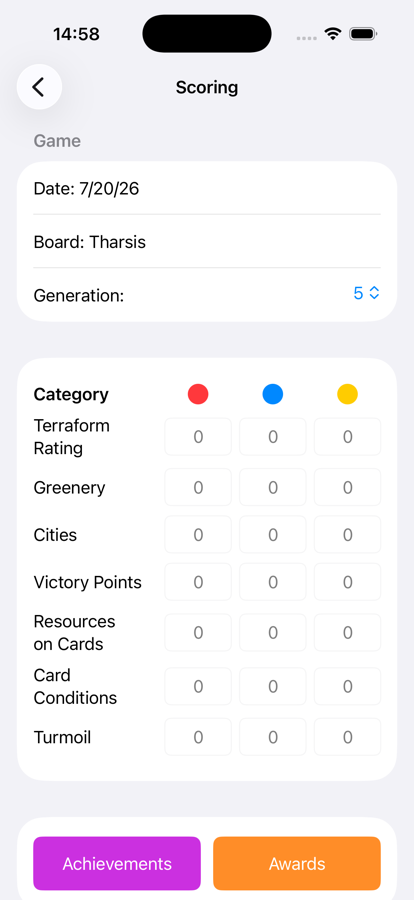
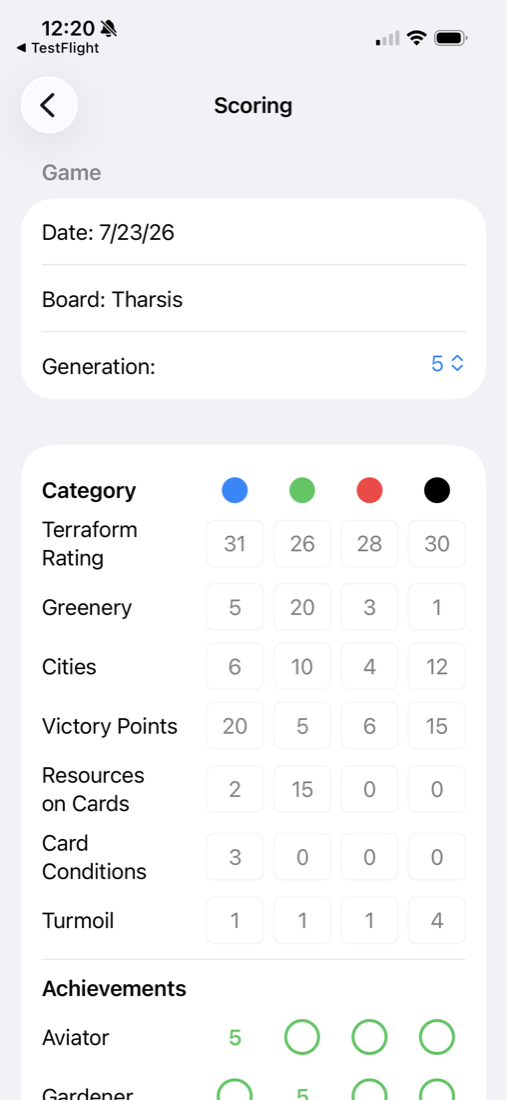
Update website screenshots

diff --git a/docs/index.html b/docs/index.html
@@ -49,16 +49,28 @@
       </div>
       <div class="screenshot-grid">
         <figure>
+          <img src="screenshots/personal-log.png" alt="Personal Log screen with player profile, win rate, records, and recent expeditions" loading="lazy">
+          <figcaption><strong>Make it your journal</strong><span>See your profile, records, preferences, and recent expeditions.</span></figcaption>
+        </figure>
+        <figure>
           <img src="screenshots/expedition-team.png" alt="Expedition Team screen with three players, corporations, and preludes" loading="lazy">
           <figcaption><strong>Prepare your expedition</strong><span>Add players, corporations, preludes, and colonies.</span></figcaption>
         </figure>
         <figure>
-          <img src="screenshots/scoring.png" alt="Scoring screen with categories for three players" loading="lazy">
+          <img src="screenshots/scoring.png" alt="Scoring screen with score categories for four players" loading="lazy">
           <figcaption><strong>Calculate every score</strong><span>Record the final generation in one clear flow.</span></figcaption>
         </figure>
         <figure>
-          <img src="screenshots/statistics.png" alt="Statistics screen showing saved games and winners" loading="lazy">
-          <figcaption><strong>Keep your history</strong><span>Return to games, winners, and personal statistics.</span></figcaption>
+          <img src="screenshots/achievements-awards.png" alt="Scoring screen with achievements and awards assigned to players" loading="lazy">
+          <figcaption><strong>Assign every milestone</strong><span>Track achievements, awards, ties, and bonus points.</span></figcaption>
+        </figure>
+        <figure>
+          <img src="screenshots/final-ranking.png" alt="Final ranking screen with four players and victory points" loading="lazy">
+          <figcaption><strong>See the final ranking</strong><span>Compare every player before saving the result.</span></figcaption>
+        </figure>
+        <figure>
+          <img src="screenshots/game-details.png" alt="Saved game screen with board, expansions, colonies, players, and scores" loading="lazy">
+          <figcaption><strong>Keep the full story</strong><span>Return to the setup, players, and complete score breakdown.</span></figcaption>
         </figure>
       </div>
     </section>

diff --git a/docs/style.css b/docs/style.css
@@ -38,9 +38,8 @@ h2 { margin-bottom: 44px; font-size: clamp(2.4rem, 5vw, 4.2rem); line-height: 1.
 .app-preview span { color: var(--muted); font-size: .9rem; }
 .screenshots, .features { padding: 115px 0; border-top: 1px solid var(--line); }
 .section-heading { max-width: 760px; }
-.screenshot-grid { display: grid; grid-template-columns: repeat(3, 1fr); gap: clamp(16px, 3vw, 32px); align-items: end; }
+.screenshot-grid { display: grid; grid-template-columns: repeat(3, 1fr); gap: clamp(42px, 5vw, 72px) clamp(16px, 3vw, 32px); align-items: start; }
 .screenshot-grid figure { margin: 0; }
-.screenshot-grid figure:nth-child(2) { transform: translateY(-28px); }
 .screenshot-grid img { display: block; width: 100%; height: auto; border: 1px solid var(--line); border-radius: 34px; box-shadow: 0 24px 60px rgba(40,35,28,.12); }
 .screenshot-grid figcaption { display: flex; flex-direction: column; gap: 3px; padding: 18px 8px 0; }
 .screenshot-grid figcaption strong { font-size: 1rem; }
@@ -71,7 +70,7 @@ footer p { margin: 0; }
 @media (max-width: 800px) {
   .hero { grid-template-columns: 1fr; padding-top: 70px; }
   .app-preview { min-height: 340px; }
-  .screenshot-grid { gap: 12px; }
+  .screenshot-grid { grid-template-columns: repeat(2, 1fr); gap: 48px 18px; }
   .privacy-card { grid-template-columns: 1fr; align-items: start; }
   .policy-layout { grid-template-columns: 1fr; }
   .policy-heading { position: static; }
@@ -89,7 +88,6 @@ footer p { margin: 0; }
   .button { width: 100%; }
   .screenshot-grid { grid-template-columns: 1fr; gap: 22px; }
   .screenshot-grid figure { width: min(100%, 280px); margin-inline: auto; }
-  .screenshot-grid figure:nth-child(2) { transform: none; }
   .feature-list li { grid-template-columns: 42px 1fr; }
   .feature-list p { grid-column: 2; }
 }